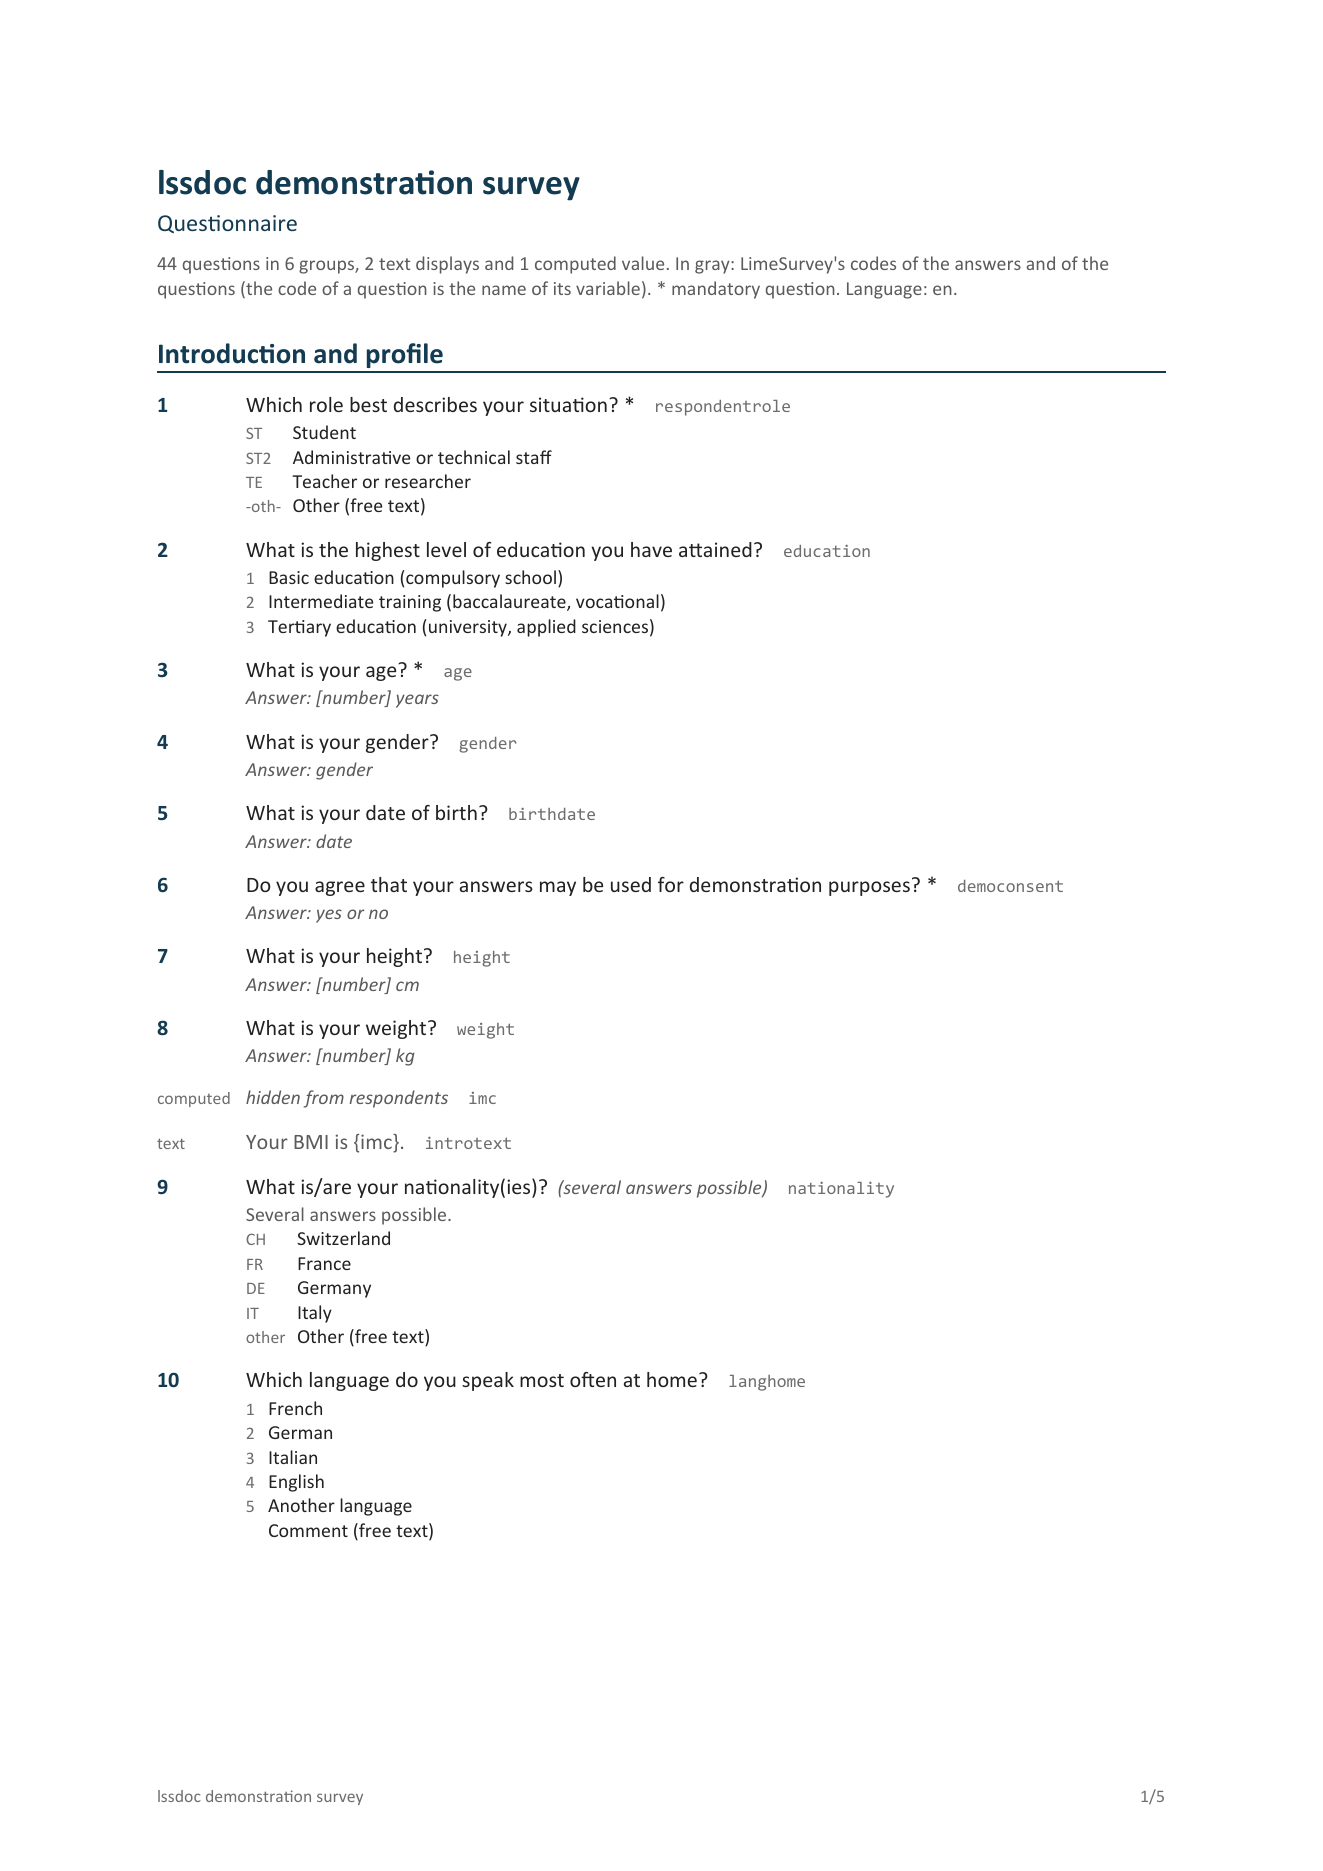
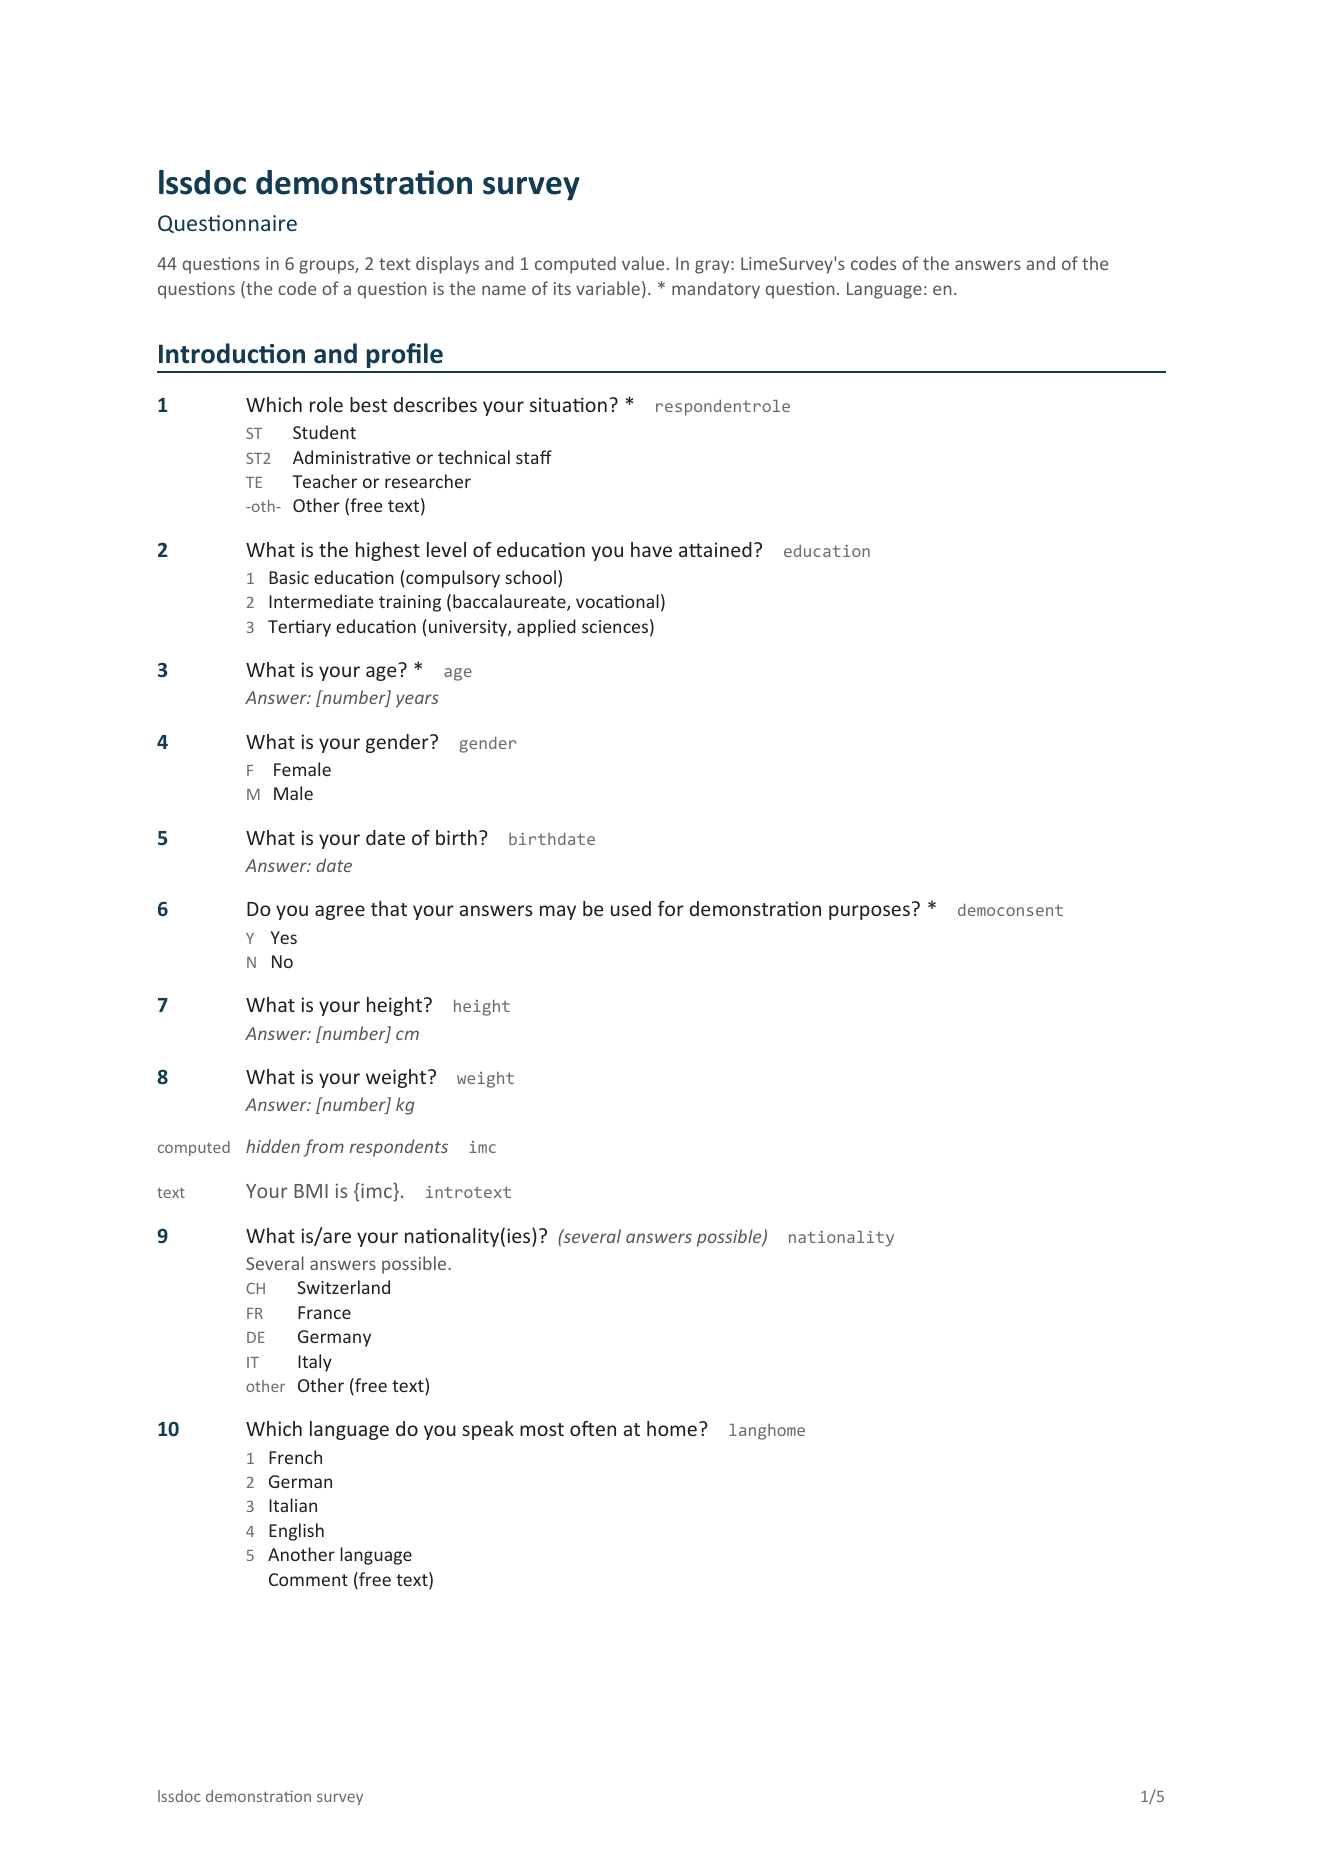
docs: say where the conditions and the question numbers are printed
NEWS and the help of render_documentation() and render_questionnaire()
describe the conditions of a group and of a subquestion, the question
numbers of the table of contents and the options of a yes/no question.
The figure of the questionnaire is rendered again, because its yes/no
question now lists its two options.

diff --git a/NEWS.md b/NEWS.md
@@ -25,16 +25,33 @@
 * `render_questionnaire()` now renders the questionnaire as it reads, in
   one language (#9). Each question has its number and its text, then its
   subquestions and its answer options, one per line. The codes of
-  LimeSurvey are printed in small gray type, and `show_codes = FALSE`
-  removes them. The numbers are those of `render_documentation()`. The
-  document declares its language to Word (`proofing_lang`), so the spelling
-  checker and the hyphenation follow the questionnaire.
+  LimeSurvey and the conditions written with them are printed in small
+  gray type, and `show_codes = FALSE` removes both. The numbers are those
+  of `render_documentation()`. The document declares its language to Word
+  (`proofing_lang`), so the spelling checker and the hyphenation follow
+  the questionnaire.
 
 ## Minor improvements and bug fixes
 
 * `render_documentation()` gains `show_group_description`. `FALSE` leaves
   out the description of a group, the text LimeSurvey shows respondents
   under the group title.
+
+* `render_documentation()` now prints the conditions set on a group and on
+  a subquestion (the row of an array, the option of a multiple choice). It
+  printed the condition of the question only, so a question whose group
+  alone carried a condition showed `All`. When a group or a subquestion has
+  a condition, the Filter cell gives each one on its own line after the
+  name of its level (`Group: Q1 = 1`), and the condition of a group follows
+  its heading.
+
+* The table of contents of `render_documentation()` now gives the numbers
+  of the questions of each group (`questions 1 to 10`). In the table layout
+  its group entries lead to the group rows, where they led nowhere. With
+  `show_groups = FALSE` it lists no group.
+
+* A gender question now lists Female before Male, the order LimeSurvey
+  shows.
 
 * A question hidden from respondents (LimeSurvey attribute `hidden` at 1)
   now says so on its card or row. It used to be rendered like any other
